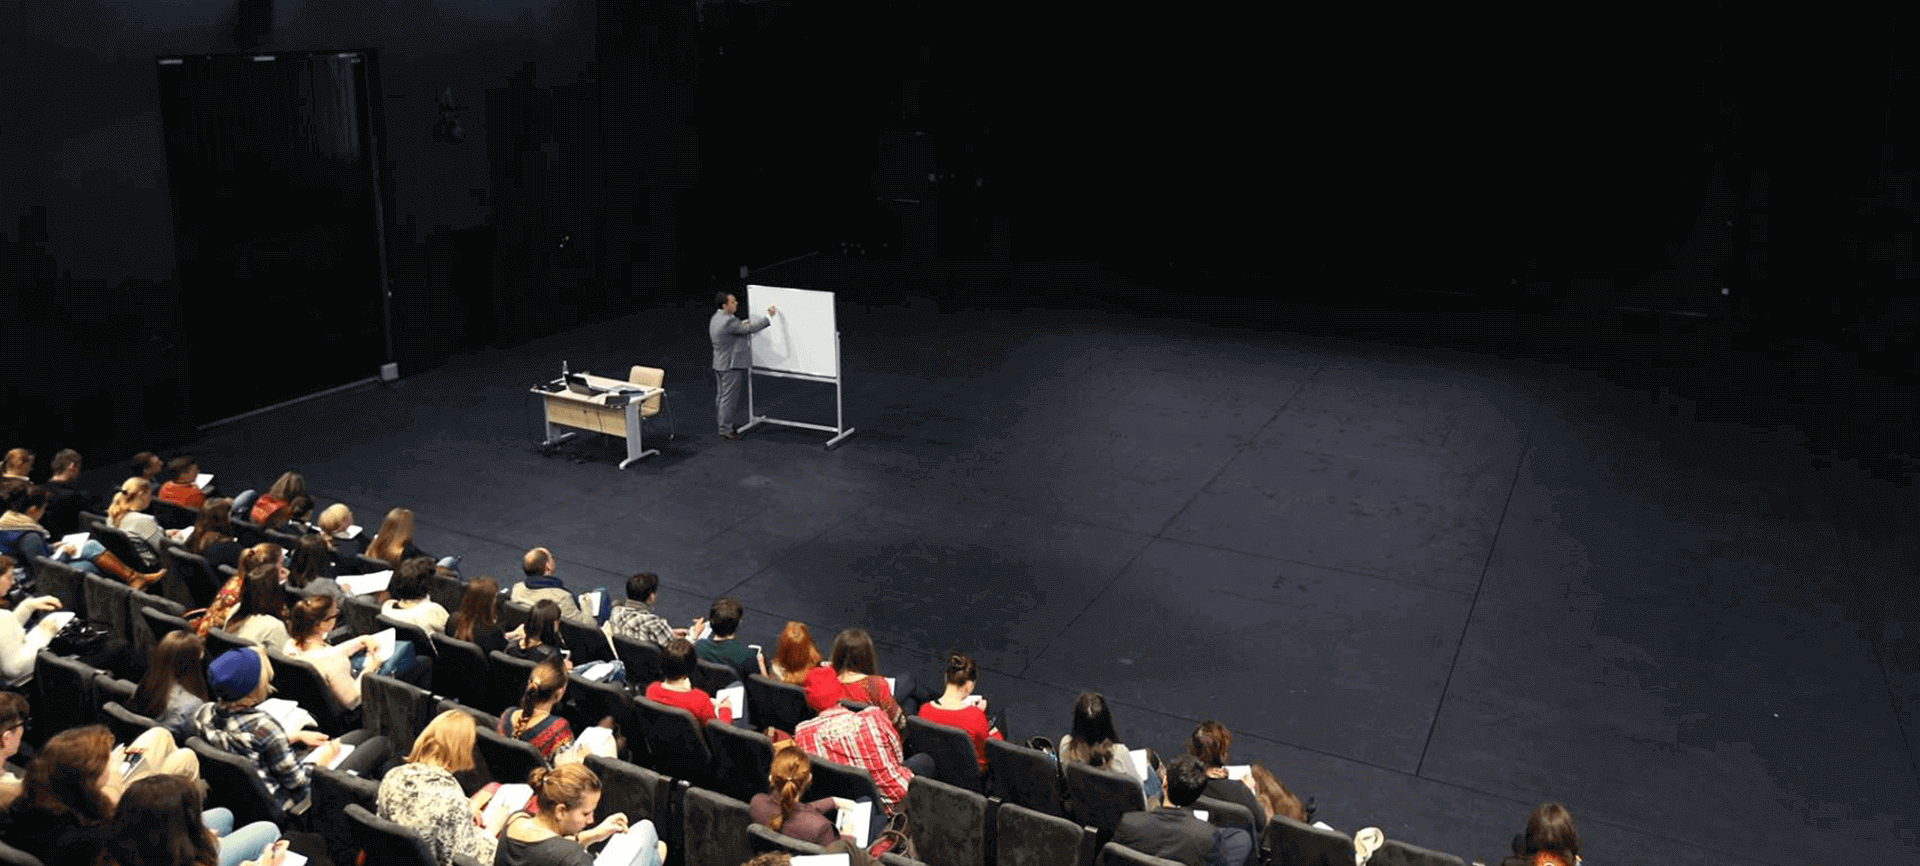
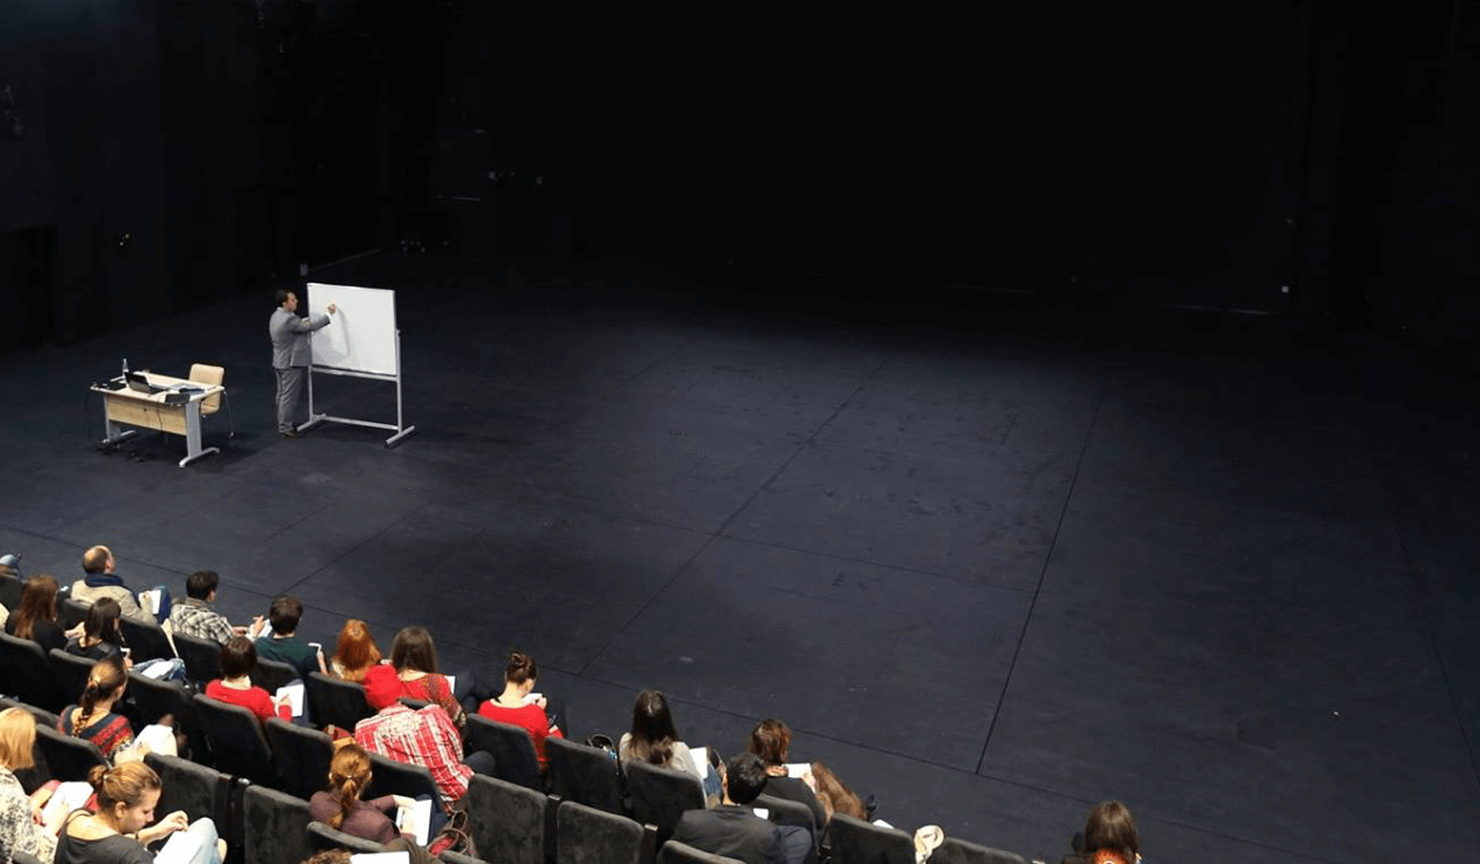
fix

diff --git a/khalilov/css/style.css b/khalilov/css/style.css
@@ -3332,9 +3332,7 @@ body {
   padding: 176px 0;
   position: relative;
   /*   background-position-x: -165px;
-  width: 114%; */
-  background-position-x: -141px;
-  width: 109%; }
+  width: 114%; */ }
 
 .visual:before {
   content: "";
